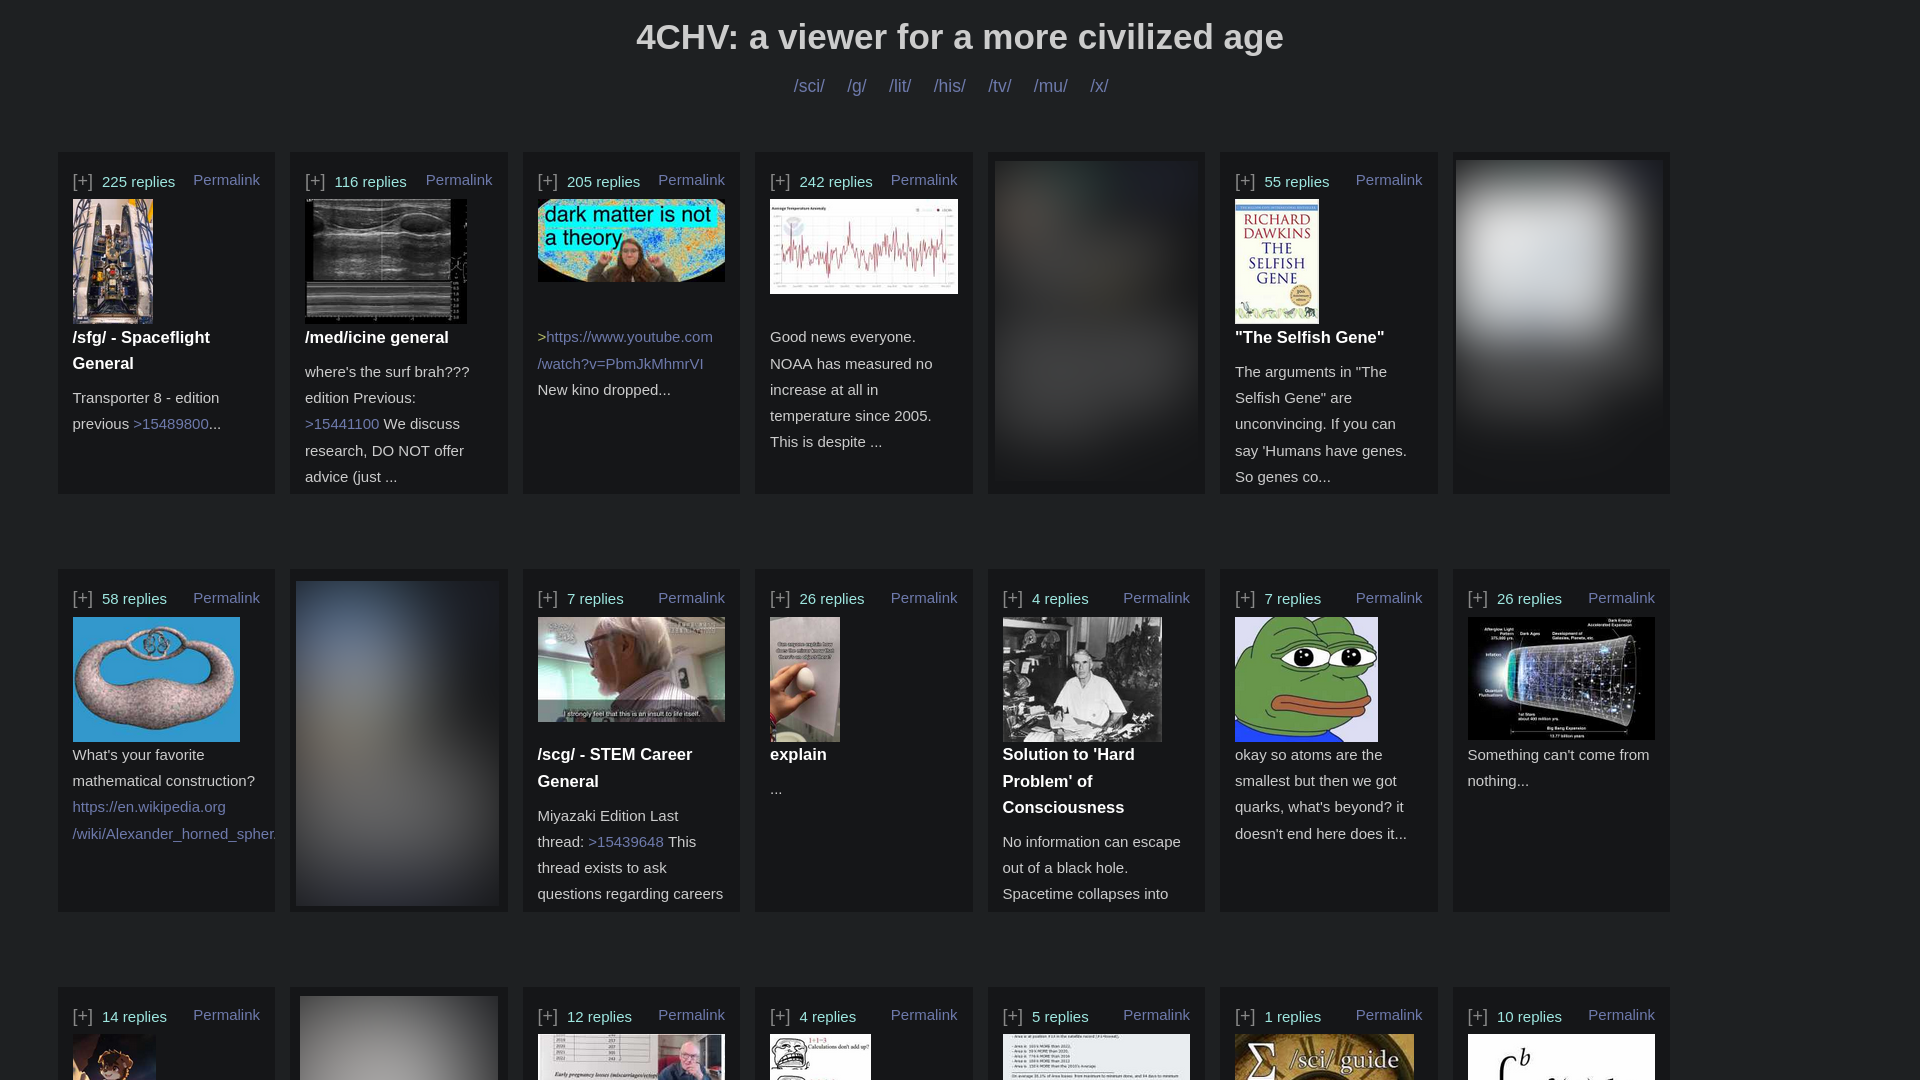
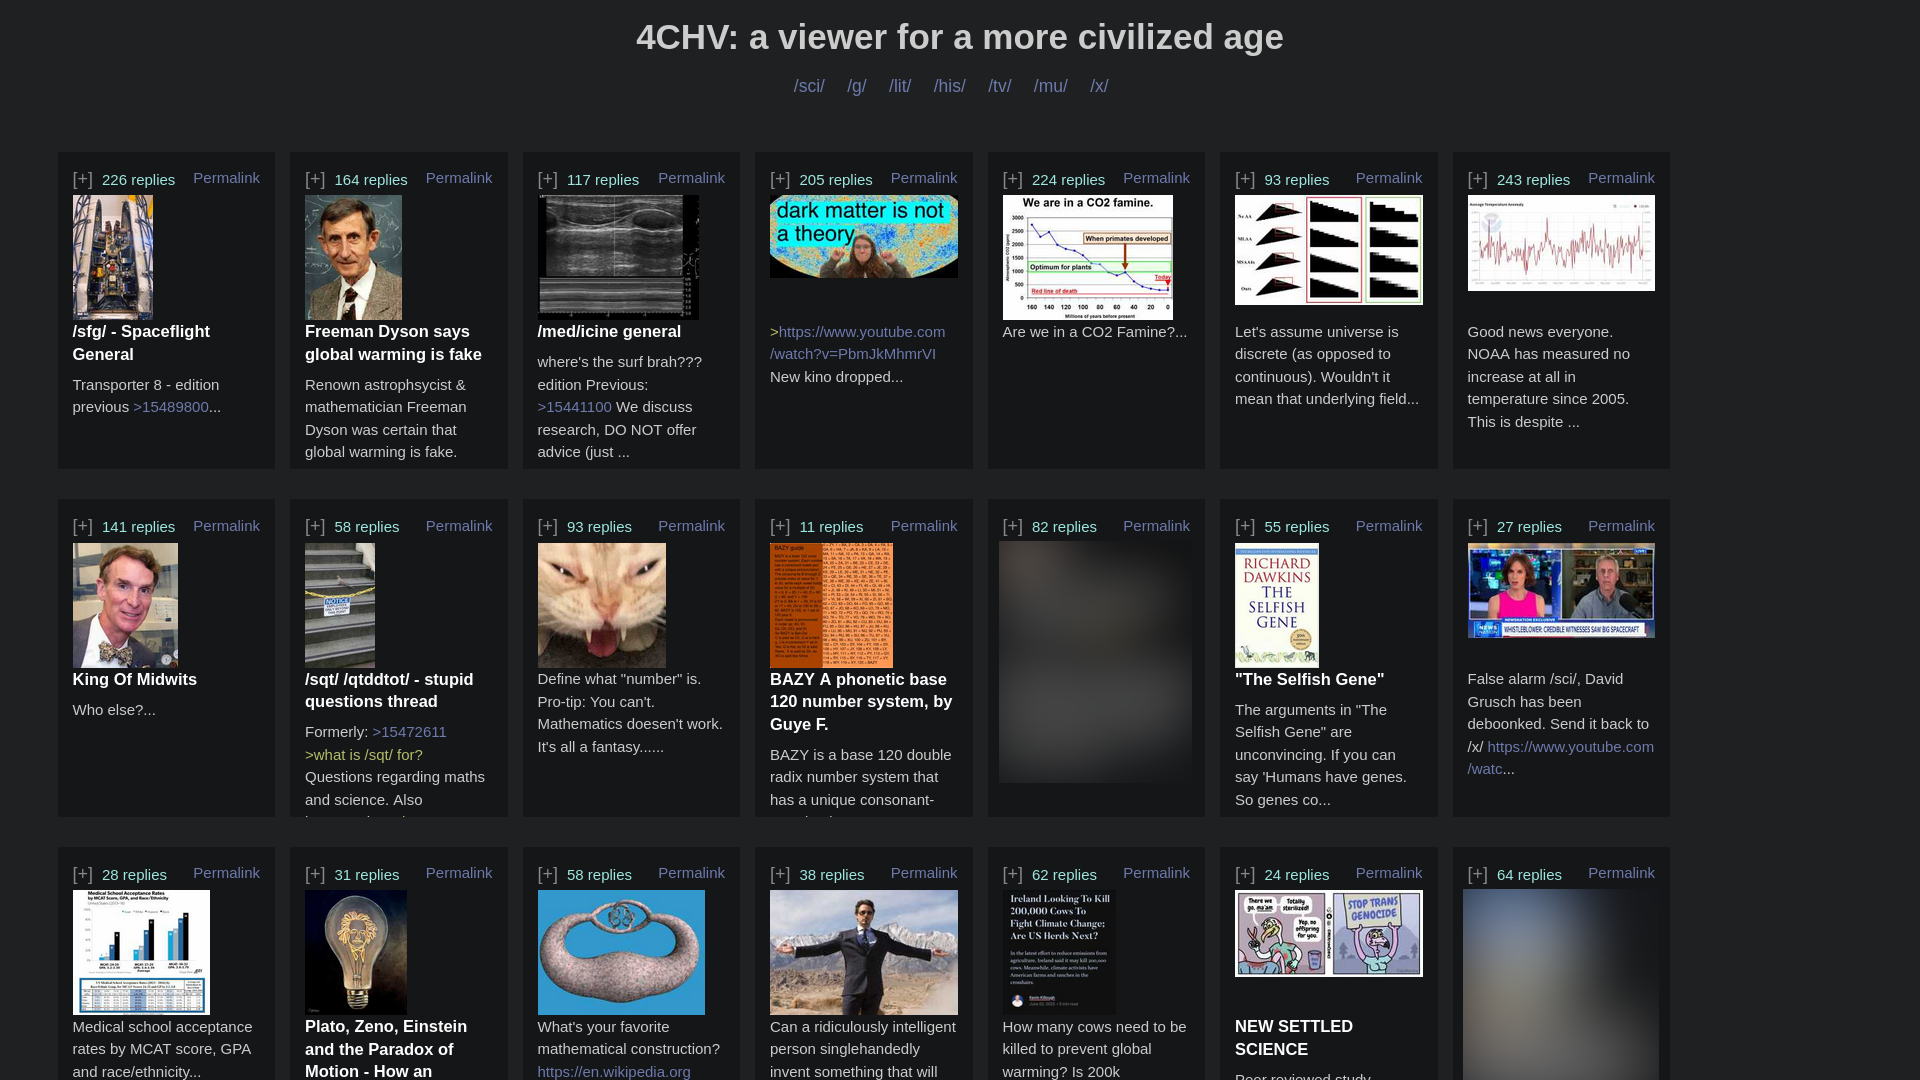
update css and screnshots

diff --git a/resources/style.css b/resources/style.css
@@ -204,10 +204,12 @@ Styling for collapsible
     padding: 1em 1em;
     display: inline-block;
     vertical-align: top;
-    height: 250px;
+    height: 230px;
     width: 150px;
     margin-right: 1em;
+    margin-bottom: 2em;
     font-size: 12px;
+    line-height: 1.5em;
     overflow: hidden;
 }
 

diff --git a/scripts/view.py b/scripts/view.py
@@ -253,7 +253,7 @@ def print_post(post: dict, tabs: int, hidden: bool):
 
 # print an entire board
 def print_board(board: dict, threads_sorted : list, board_name : str):
-    version_number = "4.0"
+    version_number = "4.1"
     html_string = f'''
     <!DOCTYPE html>
     <html>
